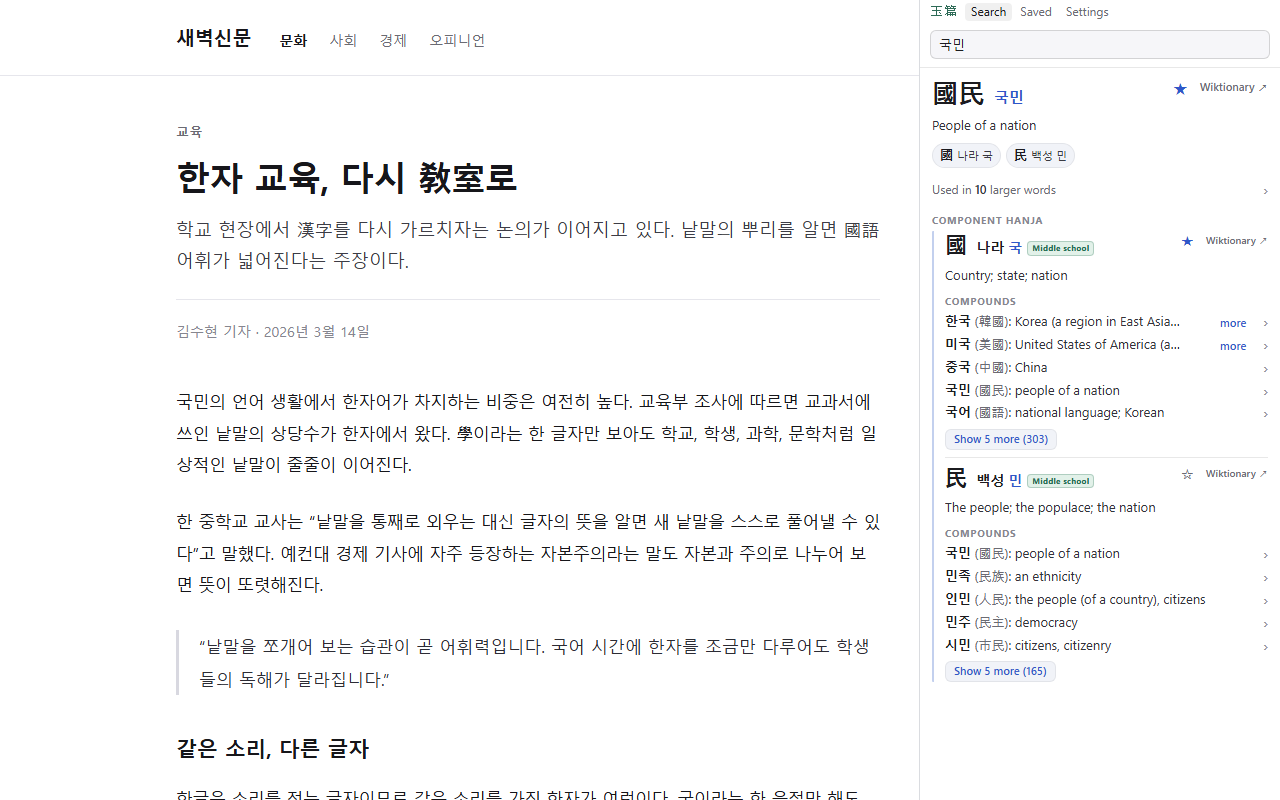
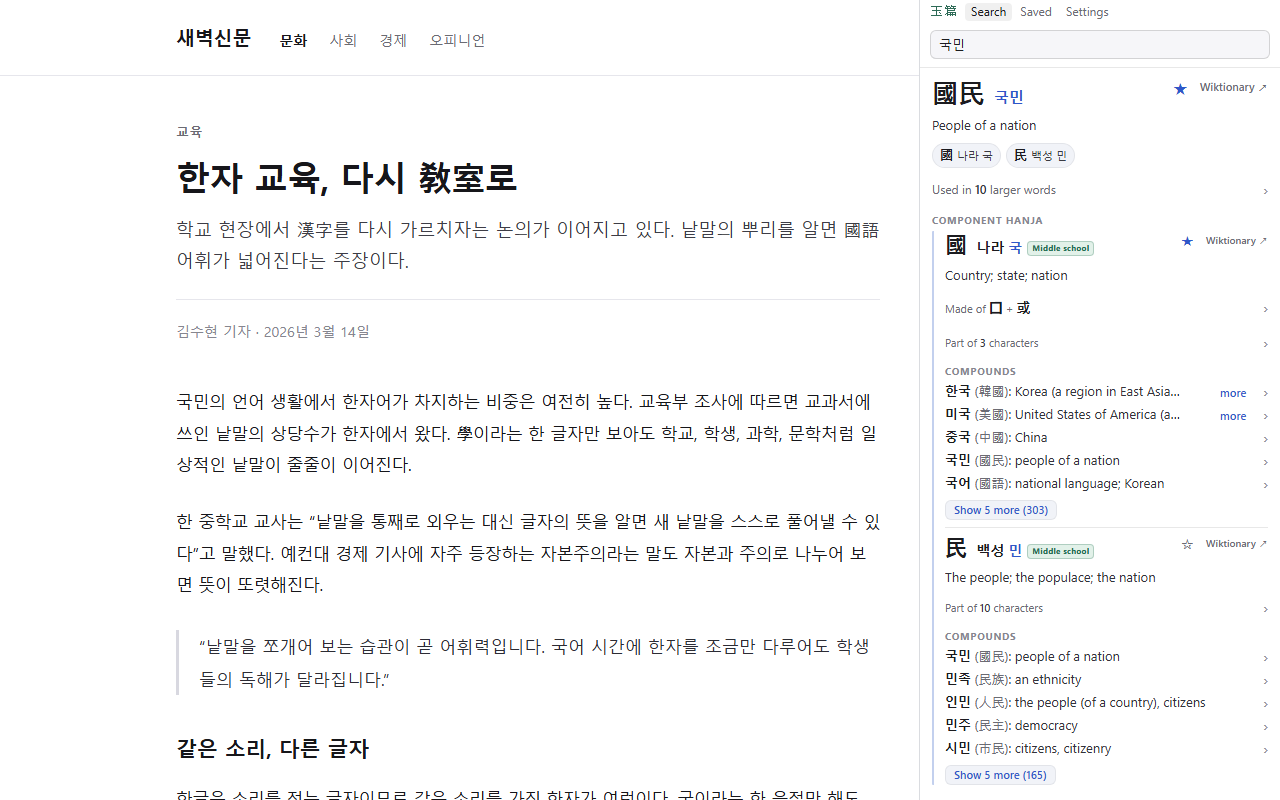
Screenshots: decomposition scene, and the panel's real decomp join
Adds 9-decomposition.png: 學 searched in the sidebar with its Made of row
opened, the four parts each showing a reading, and Part of 3 characters
under it. 學 is the only candidate that has both rows; 依, 性 and 記 are
parts of no character, so their cards carry no recomposition row.

The panel staging page now imports extension/background.js for the join,
so the rows are the worker's own output over the shipped decomp.json.
That also gives shot 5 a Made of row on 國 and a Part of row on both
component cards, which is what a user now sees there.

diff --git a/pipeline/screenshots/shots-panel.html b/pipeline/screenshots/shots-panel.html
@@ -18,6 +18,7 @@
     view=search|saved|settings   which view to show
     q=TEXT                       type TEXT into the search field and search
     collapse=NAME,NAME           collapse these saved folders by name (or prefix)
+    expand=madeof                open the card's "Made of" row, as a tap does
 
   Signals completion by setting documentElement.dataset.shotReady.
 -->
@@ -67,17 +68,25 @@ import {
   removeItems, moveItems, createFolder, renameFolder, deleteFolder,
   resolveExportSelection, buildAnkiTsv, buildCsv,
 } from "/extension/saved.js";
+/* The decomposition join is the worker's, not a copy of it: background.js
+   guards every chrome.* touch, so importing it here runs the real
+   attachDecomp / attachFoundIn / buildFoundIn against the real decomp.json. */
+import { guardDecomp, attachDecomp, attachFoundIn, buildFoundIn, buildFoundInIndex }
+  from "/extension/background.js";
 
 const params = new URLSearchParams(location.search);
 const view = params.get("view") || "search";
 
-const [hanja, words, variants] = await Promise.all(
-  ["hanja", "words", "variants"].map((n) =>
+const [hanja, words, variants, decompRaw] = await Promise.all(
+  ["hanja", "words", "variants", "decomp"].map((n) =>
     fetch("/extension/data/" + n + ".json").then((r) => r.json())));
 
 let readingIndex = null;
+const decomp = guardDecomp(decompRaw);
+let foundInIndex = null;
+const getFoundInIndex = () => (foundInIndex ||= buildFoundInIndex(decomp.parts));
 const data = {
-  hanja, words, variants,
+  hanja, words, variants, decomp,
   getReadingIndex: () => (readingIndex ||= buildReadingIndex(hanja)),
 };
 
@@ -111,7 +120,11 @@ let settings = normalizeSettings({ v: 1, defaultFolderId: "f1" }, savedState);
 function handle(msg) {
   const m = msg || {};
   switch (m.type) {
-    case "lookup": return lookup(String(m.text || ""), data);
+    case "lookup":
+      return attachFoundIn(
+        attachDecomp(lookup(String(m.text || ""), data), data), getFoundInIndex);
+    case "foundIn":
+      return { ok: true, chars: buildFoundIn(String(m.char || ""), getFoundInIndex(), hanja) };
     case "compounds": return { ok: true, compounds: buildFullCompounds(m.char, data) };
     case "usedIn": return { ok: true, words: buildUsedIn(m.word, data) };
     case "openTab": return { ok: true };
@@ -228,6 +241,13 @@ if (params.get("q")) {
     if (document.querySelector("#okp-results .card")) break;
     await sleep(50);
   }
+  await sleep(400);
+}
+// Opened the way a user opens it: the row's own click handler expands the
+// part list in place.
+if (params.get("expand") === "madeof") {
+  const row = globalThis.__hanjaHover.query(".madeof-row");
+  if (row) row.click();
   await sleep(400);
 }
 if (view === "saved" && params.get("collapse")) {

diff --git a/pipeline/make_screenshots.py b/pipeline/make_screenshots.py
@@ -2,7 +2,7 @@
 
     python pipeline/make_screenshots.py
 
-Writes screenshots/1-character-lookup.png through 8-japanese-lookup.png, all
+Writes screenshots/1-character-lookup.png through 9-decomposition.png, all
 1280x800 24-bit RGB with no alpha channel, which is what the store accepts.
 The promotional tiles are a separate script (make_promo.py); this one only
 touches the numbered shots.
@@ -220,6 +220,41 @@ SHOTS = [
             ("both component heads are in frame",
              '[...globalThis.__hanjaHover.queryAll(".card .surface")]'
              ".every((n) => n.getBoundingClientRect().bottom < 800)"),
+        ],
+    },
+    {
+        "n": 9,
+        "name": "9-decomposition.png",
+        "kind": "composite",
+        "page": {"scene": "0", "scroll": 120},
+        # 學 searched in the panel, its "Made of" row opened: the four parts
+        # with their readings, and the "Part of" row underneath. 學 is the one
+        # candidate that has both — 依, 性 and 記 are parts of nothing, so
+        # their cards carry no recomposition row at all.
+        "panel": {"view": "search", "q": "學", "expand": "madeof"},
+        "checks": [
+            head_is("學"),
+            ("made-of row is open",
+             'globalThis.__hanjaHover.query(".madeof-row")'
+             '.getAttribute("aria-expanded") === "true"'),
+            ("part list is showing",
+             '!globalThis.__hanjaHover.query(".madeof-list").hidden'),
+            ("four part rows",
+             'globalThis.__hanjaHover.queryAll(".madeof-part").length === 4'),
+            # Every row must carry a reading: a bare glyph in the shot would
+            # advertise the feature failing to join.
+            ("every part row reads as a character",
+             '[...globalThis.__hanjaHover.queryAll(".madeof-part")]'
+             '.every((n) => n.classList.contains("nav") &&'
+             ' (n.querySelector(".r-eumhun") || {}).textContent)'),
+            has_text("아들 자 among the parts", ".madeof-part", "자"),
+            ("part-of row present",
+             '!!globalThis.__hanjaHover.query(".foundin-row")'),
+            ("part-of names a plausible count",
+             '(globalThis.__hanjaHover.query(".foundin-row b").textContent | 0) >= 1'),
+            ("the whole section is in frame",
+             'globalThis.__hanjaHover.query(".foundin-row")'
+             ".getBoundingClientRect().bottom < 800"),
         ],
     },
 ]

diff --git a/pipeline/README.md b/pipeline/README.md
@@ -496,7 +496,7 @@ A failed check exits non-zero.
 python make_screenshots.py
 ```
 
-Regenerates all eight numbered shots in `screenshots/` (the promotional tiles
+Regenerates all nine numbered shots in `screenshots/` (the promotional tiles
 are `make_promo.py`, which is unrelated). Every shot is 1280x800 24-bit RGB
 with no alpha, which is what the store accepts.
 
@@ -518,7 +518,11 @@ the shipped `extension/data/*.json` — behind `__hanjaHoverTestRuntime`, the
 message-transport stub those scripts already accept in place of
 `chrome.runtime` (the same hook `test-page/embed.html` uses). The panel page
 copies the sidepanel markup verbatim, ids and all, and seeds an in-memory saved
-store where `chrome.storage` would be. Selections are real DOM ranges handed to
+store where `chrome.storage` would be. It also imports `extension/background.js`
+itself for the decomposition join, so the Made of rows and the Part of count are
+the worker's own output over the shipped `decomp.json` rather than a second
+implementation of them (every `chrome.*` touch in that file is already guarded,
+so importing it into a plain page is safe). Selections are real DOM ranges handed to
 the content script's own `handleSelection()`; the popup is sized by the
 product's own `resizePanel`, the code path a drag runs. Every pixel of UI in
 the output is the product rendering itself.
